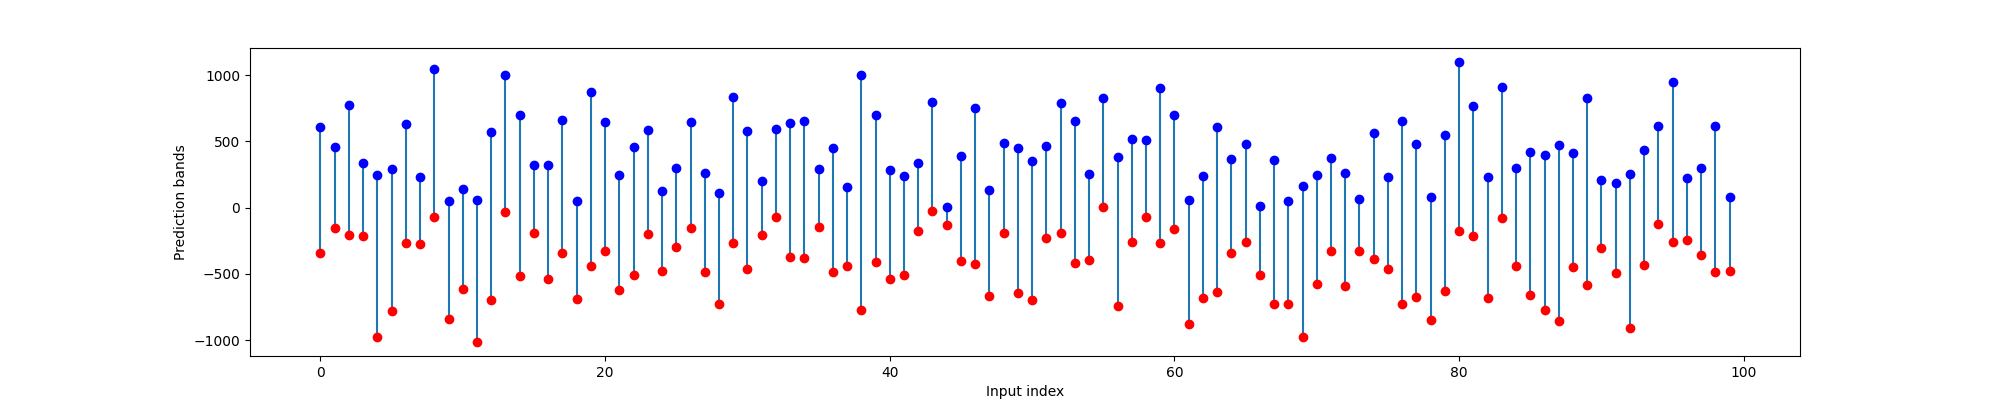
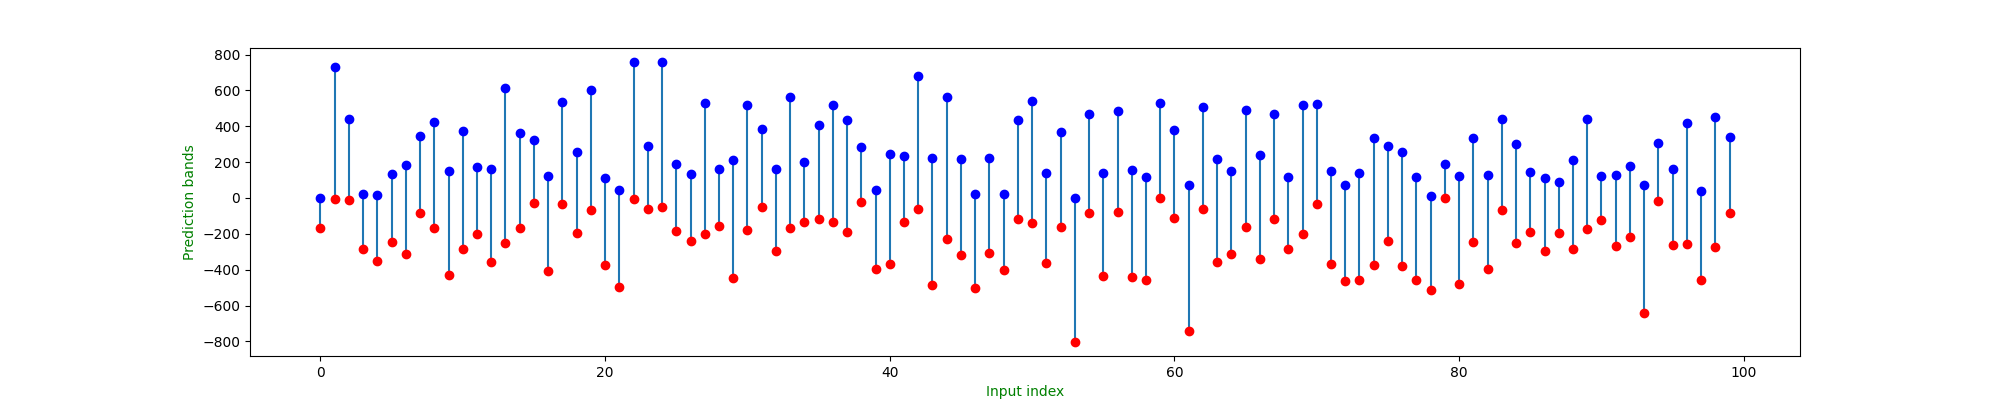
Transparent image backgrounds

diff --git a/spline.py b/spline.py
@@ -12,8 +12,11 @@ y = yt + normal(size = n, scale = magnitude) # add noise
 st = CubicSpline(xt, yt) # fit a cubic spline to the pure data
 s = CubicSpline(x, y) # fit a cubic spline to the noisy data
 
+plt.rcParams.update({'text.color': 'green',
+                     'axes.labelcolor': 'green',
+                     'axes.facecolor':  'none' })
 plt.scatter(x, y, c = 'red') # data
 plt.plot(xt, yt, c = 'blue', linestyle = 'dashed') # pure model
-plt.plot(x, st(x), c = 'green') # clean spline
-plt.plot(xt, s(xt), c = 'black') # noisy spline
-plt.savefig('spline.png')
+plt.plot(x, st(x), c = 'green', linewidth = 2) # clean spline
+plt.plot(xt, s(xt), c = 'black', linewidth = 1) # noisy spline
+plt.savefig('spline.png', transparent = True)

diff --git a/natural.py b/natural.py
@@ -11,7 +11,10 @@ y = np.cos(xt) + normal(size = n, scale = magnitude)
 s = CubicSpline(x, y) # as before
 ns = CubicSpline(x, y, bc_type = 'natural') # fit a NATURAL cubic spline
 
+plt.rcParams.update({'text.color': 'green',
+                     'axes.labelcolor': 'green',
+                     'axes.facecolor':  'none' })
 plt.scatter(x, y, c = 'gray', s = 10) # data
 plt.plot(xt, s(xt), linestyle = 'dashed', c = 'red') # regular spline (defaults to 'not-a-knot')
 plt.plot(xt, ns(xt), c = 'black') # natural spline
-plt.savefig('natural.png')
+plt.savefig('natural.png', transparent = True)

diff --git a/bands.py b/bands.py
@@ -59,10 +59,13 @@ for r in range(b):
         low[i] = min(low[i], prediction)
         high[i] = max(high[i], prediction)
 
+plt.rcParams.update({'text.color': 'green',
+                     'axes.labelcolor': 'green',
+                     'axes.facecolor':  'none' })        
 plt.xlabel('Input index')
 plt.ylabel('Prediction bands')
 plt.vlines(pos, low, high, zorder = 1) # behind
 plt.scatter(pos, low, c = 'red', zorder = 2) # front
 plt.scatter(pos, high, c = 'blue', zorder = 2) # front
-plt.savefig('bands.png')
+plt.savefig('bands.png', transparent = True)
 

diff --git a/kernel.py b/kernel.py
@@ -40,8 +40,11 @@ for point in xq:
     else: # do NOT divide by zero
         yq.append(None) # no value obtained for this point (omit in drawing)
 
+plt.rcParams.update({'text.color': 'green',
+                     'axes.labelcolor': 'green',
+                     'axes.facecolor':  'none' })
 plt.plot(xq, yq, c = 'orange', linewidth = 2, linestyle = 'dashed') # model
 plt.scatter(xq, yq, c = 'red', s = 15) # query points
 plt.scatter(x, y, c = 'gray', s = 15) # data
-plt.savefig('kernel.png')
+plt.savefig('kernel.png', transparent = True)
 

diff --git a/knn2.py b/knn2.py
@@ -28,8 +28,11 @@ for point in xq: # local models
             ny[i] = y[known]
     yq.append(sum(ny) / k)
 
+plt.rcParams.update({'text.color': 'green',
+                     'axes.labelcolor': 'green',
+                     'axes.facecolor':  'none' })
 plt.plot(xq, yq, c = 'orange', linewidth = 2, linestyle = 'dashed') # model
 plt.scatter(xq, yq, c = 'red', s = 15) # query points
 plt.scatter(x, y, c = 'gray', s = 15) # data
-plt.savefig('knn2.png')
+plt.savefig('knn2.png', transparent = True)
 

diff --git a/bootstrap.py b/bootstrap.py
@@ -1,6 +1,5 @@
 import numpy as np
 from random import choices # sample with replacement
-from numpy.linalg import qr, inv
 from numpy.random import normal, uniform
 from sklearn.linear_model import LinearRegression
 
